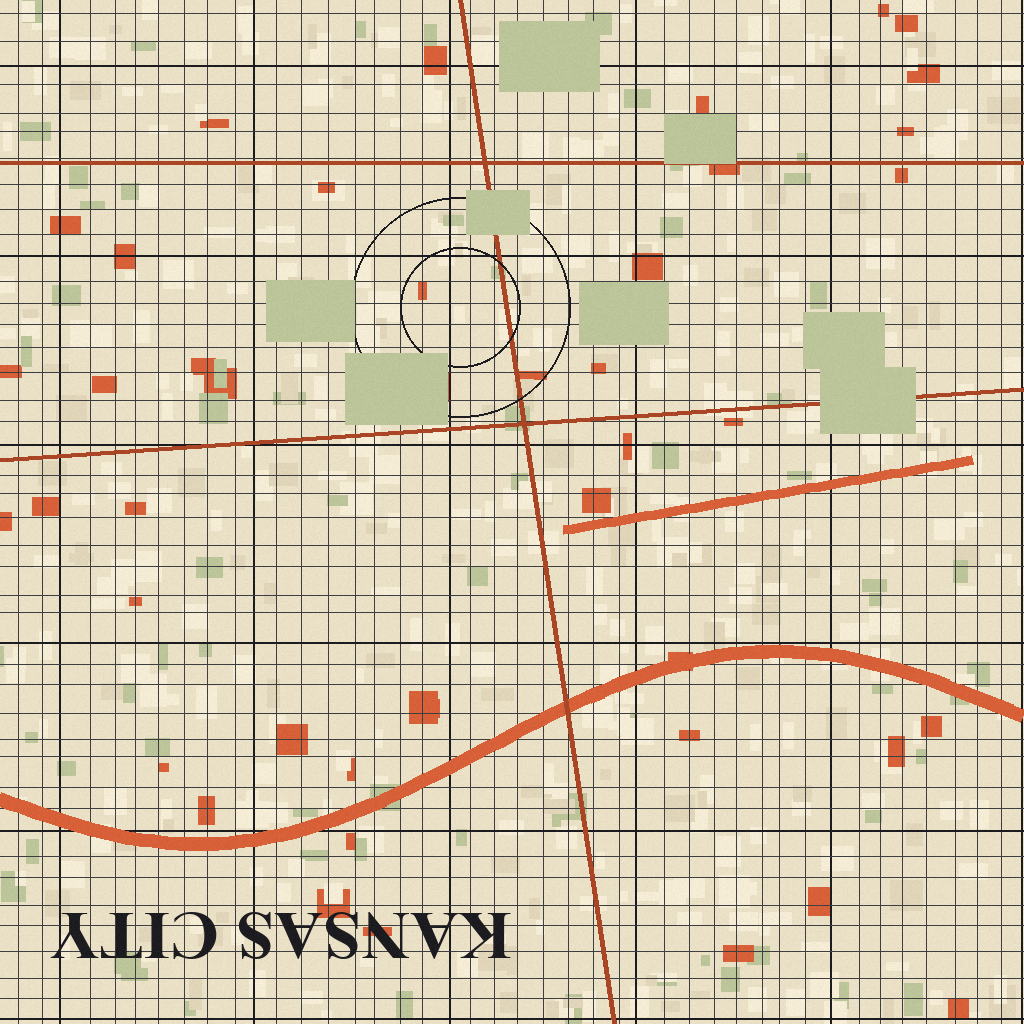
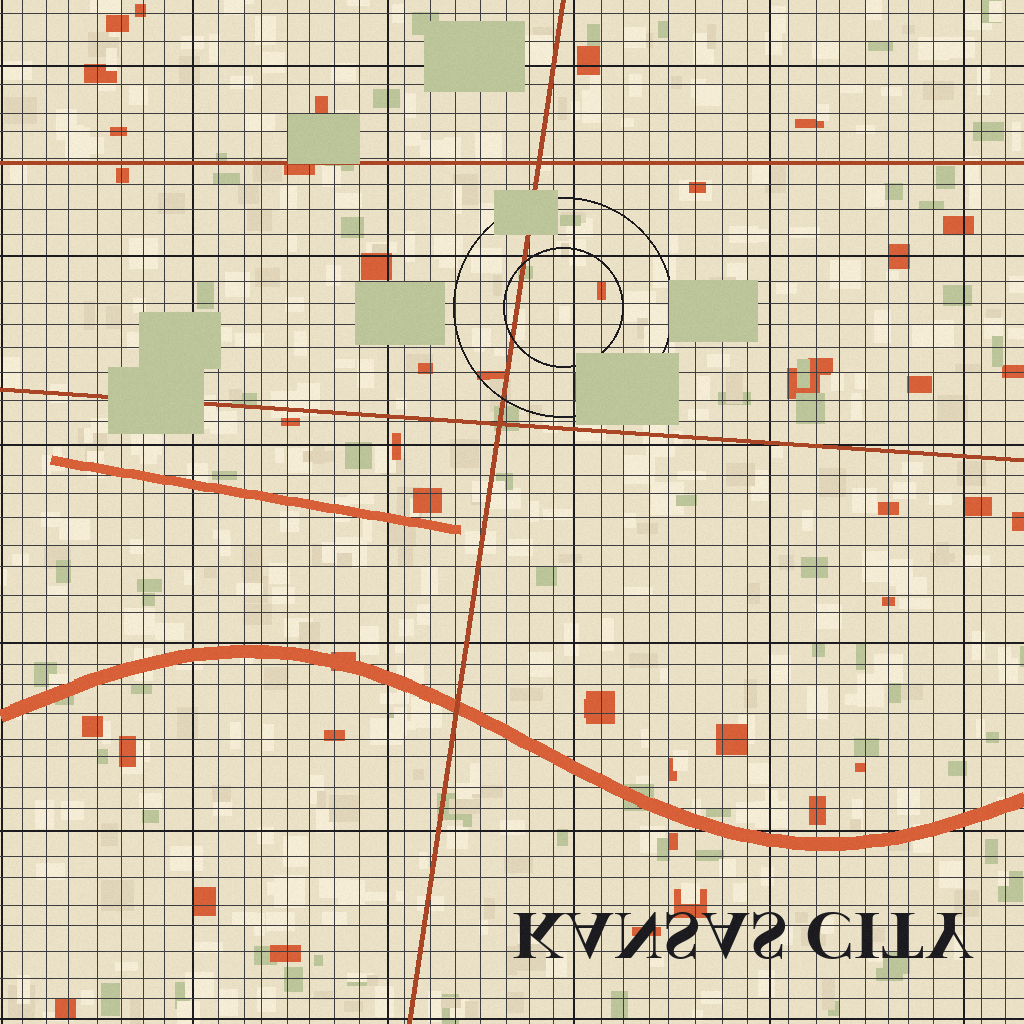
Art frame: vertical flip so labels display top-right right-side-up

Changed region(s): [[0.0, 0.0, 1.0, 1.0], [0.8438, 0.5625, 0.875, 0.5938], [0.125, 0.5625, 0.1562, 0.5938]]

diff --git a/scripts/_gen_city_map_textures.py b/scripts/_gen_city_map_textures.py
@@ -241,9 +241,11 @@ for key, drawer in [("new_york", draw_new_york),
                     ("los_angeles", draw_los_angeles),
                     ("kansas_city", draw_kansas_city)]:
     im = drawer()
-    # Pre-rotate 180° so the print mesh's UV (which flips both axes vs
-    # standard image coords) ends up showing the text top-right right-side-up.
-    im = im.transpose(Image.ROTATE_180)
+    # Print mesh's UV applies a vertical flip vs standard image coords.
+    # Pre-flipping the image vertically (top↔bottom) so text drawn at the
+    # texture's top-right ends up displaying at the print's top-right with
+    # right-side-up glyphs.
+    im = im.transpose(Image.FLIP_TOP_BOTTOM)
     out = os.path.join(OUT, f"city_{key}.png")
     im.save(out)
     print(f"saved {out}")
